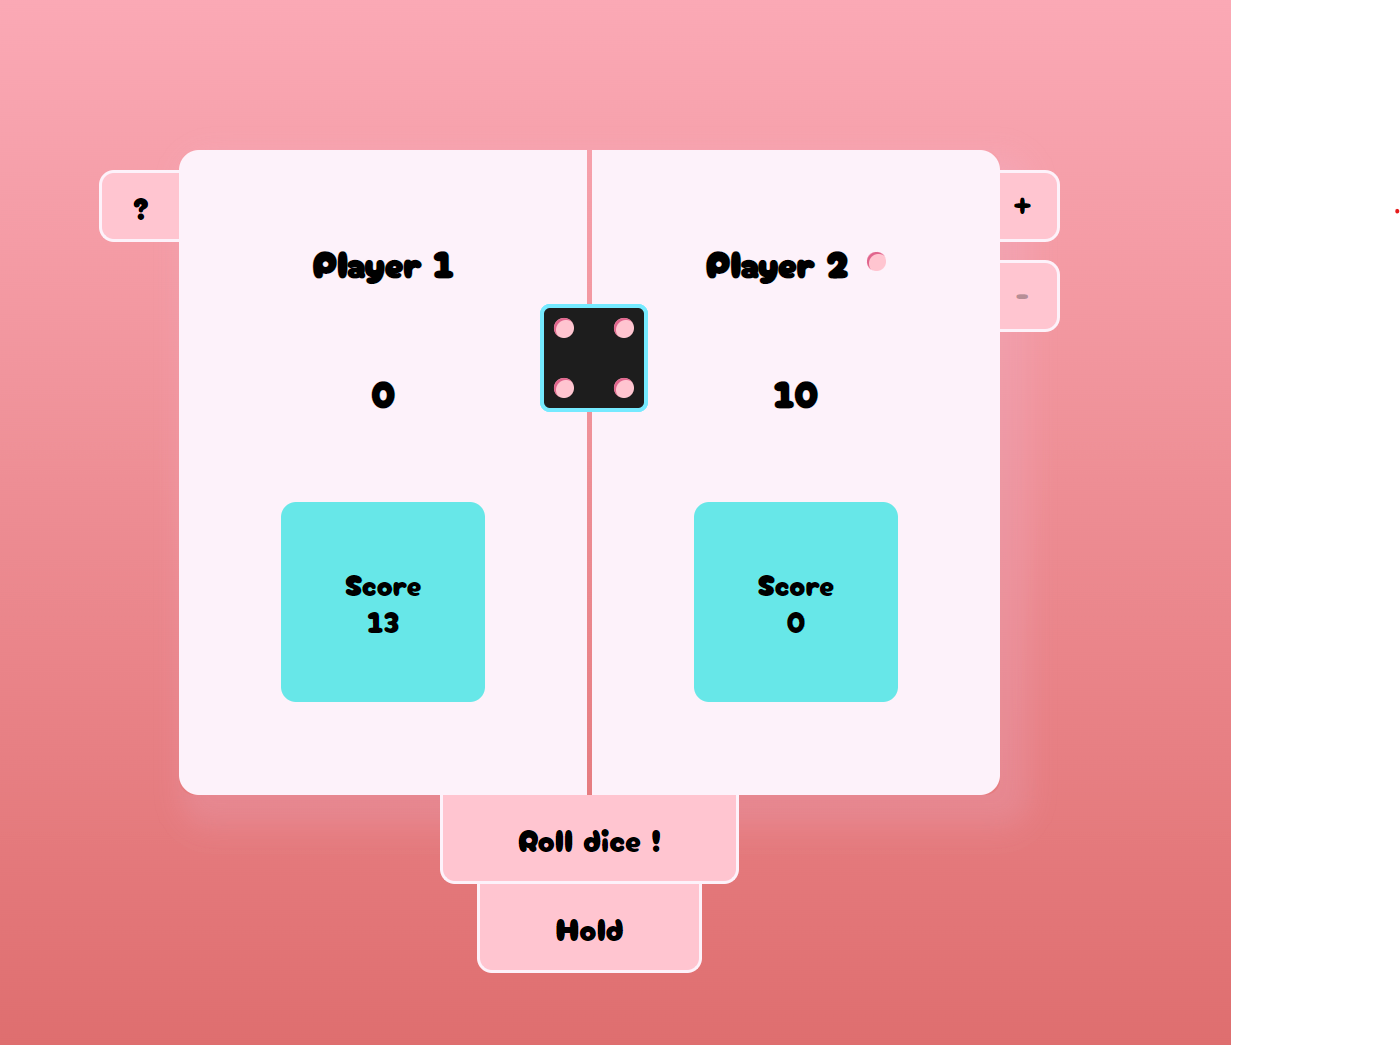
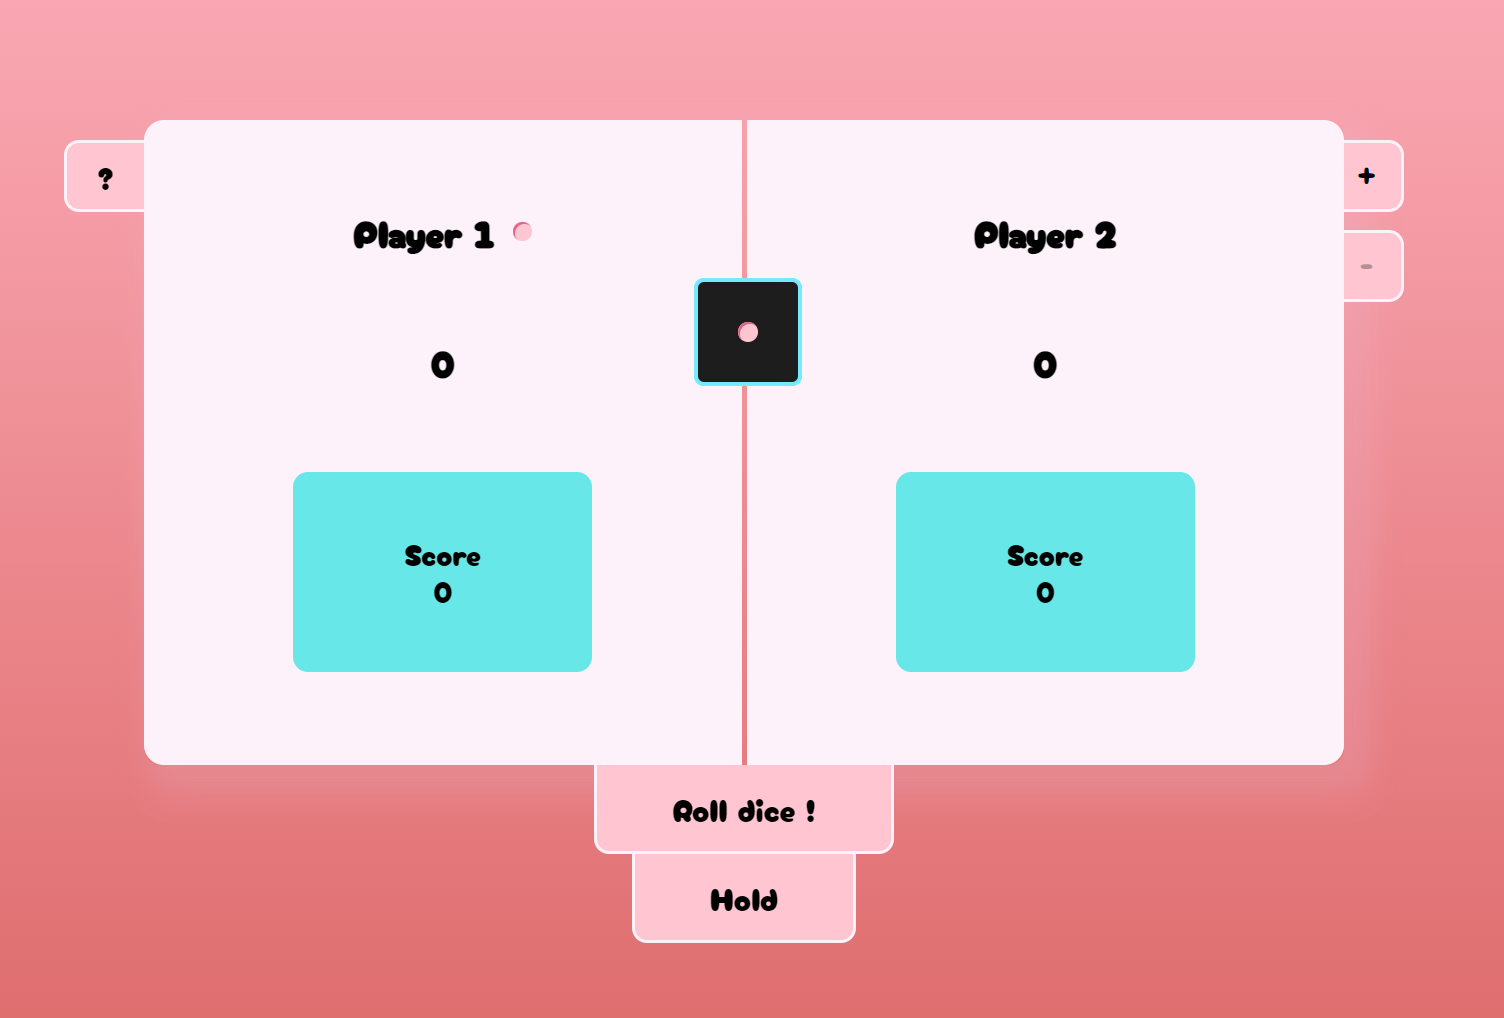
fix readme

diff --git a/src/components/App.jsx b/src/components/App.jsx
@@ -87,6 +87,10 @@ function App() {
     setPlayers(copyPlayers);
   };
 
+  function checkWinner() {
+    
+  }
+
 
   return (
     <div className="App">

diff --git a/README.md b/README.md
@@ -2,18 +2,24 @@
 
 <p align="center">
 
-<img src="./readme_assets/readme_preview.png" width="30%">
+<img src="./readme_assets/readme_preview.png" width="50%">
+<img src="./readme_assets/readme_preview2.png" width="50%">
 
 </p>
 
-<h2 align="center"><a  href="https://space8rain.github.io/Pet-To-Do/">Live Demo</a></h2>
+<h2 align="center"><a  href="https://space8rain.github.io/pig-game/">Live Demo</a></h2>
 
 ## Description
 
-A simple pet project made in JS
-Implemented:
-* Switch theme
-* Adding/removing tasks
-* Mark completed
-* Drag and Drop (using the <a  href="https://github.com/SortableJS/Sortable">Sortable Library</a>)
-* Saving to local storage
+The Pig Game.
+The aim of the game is to throw a bone and score 100 points. The turn is a series of rolls and consists of the following: the player rolls the die an unlimited number of times and adds up the values. However, if he rolls a one, the whole sum gained during the turn is annulled and the turn passes to the next player. A player can end his turn at any time.
+
+There is an option to add/remove a player. Min 2, max 4.
+
+
+Stack:
+* React.js
+* CRA
+* JavaScript (ES6)
+* HTML5
+* CSS3\SCSS
